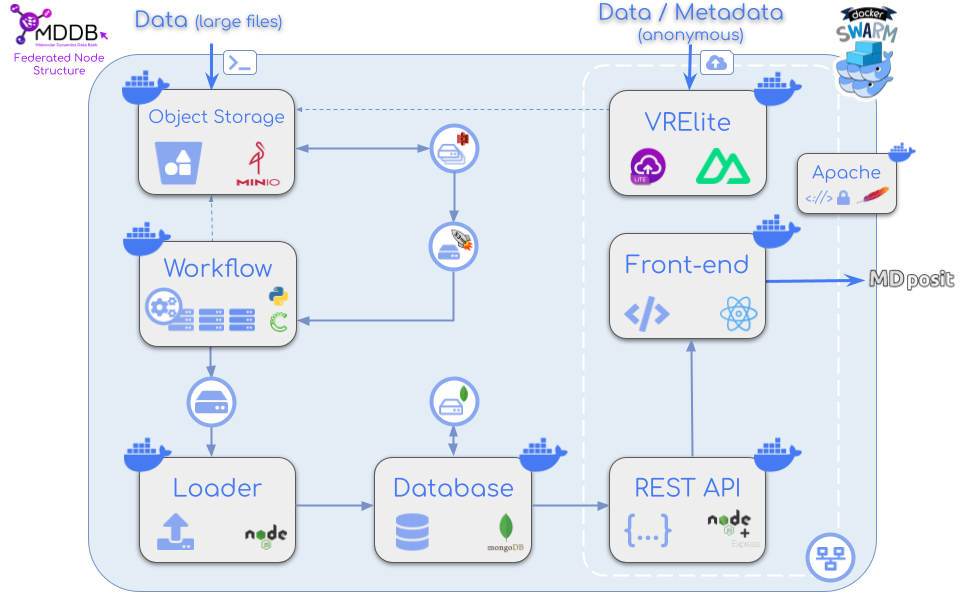
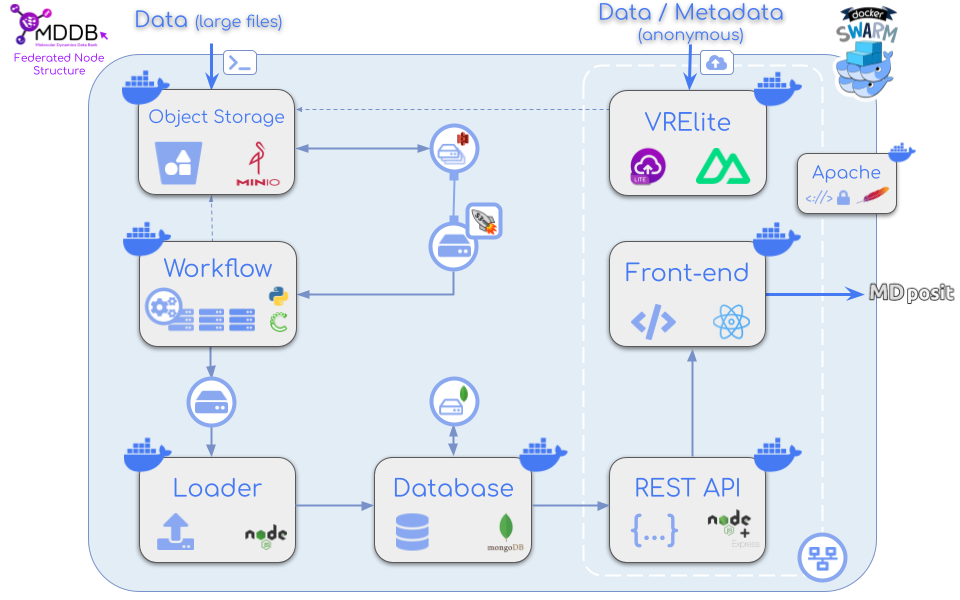
New storage section

diff --git a/readme/docker-swarm.md b/readme/docker-swarm.md
@@ -18,10 +18,11 @@ docker swarm init
 docker swarm init --advertise-addr <IP_ADDRESS>
 ```
 
-In order to execute the **long-term** tasks in **Docker Swarm** and the **one-off tasks**, such as the **loader** or the **workflow**, in **Docker Compose**, the **networks** are declared as **external** in the **docker-compose.yml** file, so they must be created before the `docker-compose build` and the `docker stak deploy`:
+In order to execute the **long-term** tasks in **Docker Swarm** and the **one-off tasks**, such as the **loader** or the **workflow**, in **Docker Compose**, some of the **networks** are declared as **external** in the **docker-compose.yml** file, so they must be created before the `docker-compose build` and the `docker stak deploy`:
 
 ```sh
 docker network create --driver overlay --attachable data_network
+docker network create --driver overlay --attachable minio_network
 ```
 
 > NOTE: **From July 2024 onwards**, the instruction for Docker Compose in **mac** is without hyphen, so from now on, `docker-compose build` is `docker compose build` when executing in **macOS**.
@@ -83,20 +84,38 @@ docker run --rm workflow_image mwf -h
 
 Please read carefully the [**workflow help**](../workflow) as it has an extensive documentation. 
 
-Example of running the workflow downloading an already **loaded trajectory** and saving the results into a **folder** that must be already created inside **WORKFLOW_VOLUME_PATH** defined in [**global .env**](config.md#env-file).
+#### Plain execution
+
+Example of **running** the workflow downloading an already **loaded trajectory** and saving the results into an **OUTPUT_FOLDER** that must be already created inside **WORKFLOW_VOLUME_PATH** defined in [**global .env**](config.md#env-file).
 
 ```sh
-docker-compose run --rm workflow mwf run -proj <ACCESSION ID> -smp -e clusters energies pockets -dir /data/<folder>
+docker-compose run --rm workflow mwf run -proj <ACCESSION ID> -smp -e clusters energies pockets -dir /data/<OUTPUT_FOLDER>
 ```
 
 Or, if the above doesn't work:
 
 ```sh
-docker run --rm workflow_image --cpus "${WORKFLOW_CPU_LIMIT}" --memory "${WORKFLOW_MEMORY_LIMIT}" mwf run -proj <ACCESSION ID> -smp -e clusters energies pockets -dir /data/<folder>
+docker run --rm workflow_image -v <WORKFLOW_VOLUME_PATH>:/data --cpus "${WORKFLOW_CPU_LIMIT}" --memory "${WORKFLOW_MEMORY_LIMIT}" mwf run -proj <ACCESSION ID> -smp -e clusters energies pockets -dir /data/<OUTPUT_FOLDER>
 ```
 
 Note that this run excludes clusters, energies and pockets analyses. Adding the -smp flag it downloads only 10 frames of the trajectory. As this instruction is a test, this will save a lot of computational time.
 
+#### Usual execution
+
+Example of **running** the workflow from data **uploaded via VRE lite**:
+
+```sh
+docker run --rm -e BUCKET=<BUCKET> --network minio_network -v <WORKFLOW_VOLUME_PATH>:/data  --cpus "${WORKFLOW_CPU_LIMIT}" --memory "${WORKFLOW_MEMORY_LIMIT}" --cap-add SYS_ADMIN --device /dev/fuse --security-opt apparmor:unconfined workflow_image mwf run -dir /data/<OUTPUT_FOLDER> -top /mnt/<FOLDER>/<TOPOLOGY> -stru /mnt/<FOLDER>/<TOPOLOGY> -traj ../../mnt/<FOLDER>/<TRAJECTORY> -mdir <REPLICA_FOLDER> -inp /mnt/<FOLDER>/metadata.yaml -filt
+```
+
+* **BUCKET:** Bucket created in MinIO via **VRE lite**. Given along with the credentials when **uploading** the data via **command line**. In format **YYYYMMDD**.
+* **WORKFLOW_VOLUME_PATH:** Workflow output path defined in [**global .env**](config.md#env-file).
+* **OUTPUT_FOLDER:** Folder inside **WORKFLOW_VOLUME_PATH**, it must be created beforehand.
+* **FOLDER:** Folder inside **BUCKET**. Given along with the credentials when **uploading** the data via **command line**.
+* **TOPOLOGY:** **Topology** file name. File uploaded via **VRE lite**.
+* **TRAJECTORY:** **Trajectory** file name. File uploaded via **VRE lite**.
+* **REPLICA_FOLDER:** Replica folder created beforehand **inside <WORKFLOW_VOLUME_PATH>/<OUTPUT_FOLDER>**
+ 
 ### Use loader
 
 While the **mongodb**, **client** and **rest** containers will remain up, the **loader** must be called every time is needed. As it is a **one-off task**, **Docker Compose** is used for running it.
@@ -116,16 +135,16 @@ docker run --rm --network data_network --cpus "${LOADER_CPU_LIMIT}" --memory "${
 **Load** documents to database:
 
 ```sh
-docker-compose run --rm loader load /data/<trajectory_dir>
+docker-compose run --rm loader load /data/<OUTPUT_FOLDER>
 ```
 
 Or, if the above doesn't work:
 
 ```sh
-docker run --rm --network data_network --cpus "${LOADER_CPU_LIMIT}" --memory "${LOADER_MEMORY_LIMIT}" loader_image loader load /data/<trajectory_dir>
+docker run --rm --network data_network -v <WORKFLOW_VOLUME_PATH>:/data --cpus "${LOADER_CPU_LIMIT}" --memory "${LOADER_MEMORY_LIMIT}" loader_image load -a <ACCESSION> /data/<OUTPUT_FOLDER>
 ```
 
-Take into account that **trajectory_dir** must be inside **LOADER_VOLUME_PATH** defined in [**global .env**](config.md#env-file).
+Take into account that **OUTPUT_FOLDER** must be inside **WORKFLOW_VOLUME_PATH**, defined in [**global .env**](config.md#env-file).
 
 **Remove** database document:
 
@@ -136,7 +155,7 @@ docker-compose run --rm loader delete <project_id>
 Or, if the above doesn't work:
 
 ```sh
-docker run --rm --network data_network --cpus "${LOADER_CPU_LIMIT}" --memory "${LOADER_MEMORY_LIMIT}" loader_image loader delete <project_id>
+docker run --rm --network data_network --cpus "${LOADER_CPU_LIMIT}" --memory "${LOADER_MEMORY_LIMIT}" loader_image delete <project_id>
 ```
 
 ### Check rest

diff --git a/readme/config.md b/readme/config.md
@@ -103,8 +103,10 @@ An `.env` file must be created in the **root** of the project. The file [**.env.
 | VRE_LITE_BASE_URL_PRODUCTION          | string | VRE lite baseURL for production                            |
 | VRE_LITE_LOG_PATH          | string  | path where the logs will be saved (relative to the docker)                           |
 | VRE_LITE_MAX_FILE_SIZE      | number  | maximum size for all the trajectory files in bytes                      |
-| &nbsp;
 | VRE_LITE_TIME_DIFF      | number  | number of days to be subtracted from now to run the cleaning jobs for the VRE lite          |
+| &nbsp;
+| CJ_VRE_LITE_LOG_PATH      | string  | Path to the cronjobs log (relative to the VRE lite docker)                                    |
+| CRONJOB_VRE_LITE_TIME_DIFF      | number  | number of days that the VRE lite credentials will last                                    |
 | CRONJOB_REPLICAS      | number  | number of replicas to deploy                                    |
 | CRONJOB_CPU_LIMIT      | string  | Cronjobs limit number of CPUs                                    |
 | CRONJOB_MEMORY_LIMIT          | string | Cronjobs limit memory                           |
@@ -242,8 +244,16 @@ services:
     image: workflow_image
     build:
       context: ./workflow   # folder to search Dockerfile for this image
+      args:
+        MINIO_ROOT_USER: ${MINIO_ROOT_USER}
+        MINIO_ROOT_PASSWORD: ${MINIO_ROOT_PASSWORD}
+        MINIO_API_PORT: ${MINIO_API_INNER_PORT}
     volumes:
       - workflow_volume:/data  # path where the workflow will look for files
+    networks:
+      - minio_network
+    depends_on:
+      - minio
     deploy:
       replicas: ${WORKFLOW_REPLICAS}  # Ensure this service is not deployed by default as it is a one-time task
       resources:
@@ -431,8 +441,9 @@ services:
     build:
       context: ./cronjobs
       args:
-        LOG_PATH: ${VRE_LITE_LOG_PATH}
+        VRE_LITE_LOG_PATH: ${VRE_LITE_LOG_PATH}
         VRE_LITE_TIME_DIFF: ${CRONJOB_VRE_LITE_TIME_DIFF}
+        CJ_VRE_LITE_LOG_PATH: ${CJ_VRE_LITE_LOG_PATH}
         MINIO_ROOT_USER: ${MINIO_ROOT_USER}
         MINIO_ROOT_PASSWORD: ${MINIO_ROOT_PASSWORD}
         MINIO_PORT: ${MINIO_API_INNER_PORT}
@@ -509,8 +520,7 @@ networks:
   data_network: 
     external: true   # Use an external network
   minio_network: 
-    name: minio_network 
-    driver: overlay   # Use an overlay network
+    external: true   # Use an external network
   web_network:
     name: web_network
     driver: overlay   # Use an overlay network

diff --git a/readme/storage.md b/readme/storage.md
@@ -1,0 +1,72 @@
+# Set Up Storage
+
+Many storages are needed before building and deploying the docker containers. 
+
+* [Docker](#docker)
+* [MinIO](#minio)
+* [MongoDB](#mongodb)
+* [Workflow](#workflow)
+* [Loader](#loader)
+* [Certificates](#certificates)
+* [Logs](#logs)
+
+## Docker
+
+In the **volume** where the data is stored, create the following **/docker folder**:
+
+> /path/to/volume/docker
+
+All the **Docker images and data** will be stored inside this volume.
+
+## MinIO
+
+In the **volume** where the data is stored, create the following **/minio folder**:
+
+> /path/to/volume/minio
+
+And inside this folder, as many **volumes** as **disks** defined in the [**docker-compose.yml**](../docker-compose.yml) file. For example:
+
+> /path/to/volume/minio/disk1 <br>
+/path/to/volume/minio/disk2 <br>
+/path/to/volume/minio/disk3 <br>
+/path/to/volume/minio/disk4
+
+As MinIO allows a **multi-drive** configuration, it will **distribute** the data amongst these **volumes**.
+
+## MongoDB
+
+In the **volume** where the data is stored, create the following **/db folder**:
+
+> /path/to/volume/db
+
+All the **MongoDB** data will be stored inside this volume.
+
+## Workflow
+
+In the **volume** where the data is stored, create the following **/data folder**:
+
+> /path/to/volume/data
+
+All the **data generated by the workflow** data will be stored inside this volume.
+
+## Loader
+
+The loader will use the same **/data folder** of the workflow as input data path:
+
+> /path/to/volume/data
+
+## Certificates
+
+In the **volume** where the data is stored, create the following **/certs folder**:
+
+> /path/to/volume/certs
+
+In this folder must be stored the **SSL/TSL** certificates that the **apache docker** will use for configuring **https** protocol.
+
+## Logs
+
+In the **volume** where the data is stored, create the following **/logs folder**:
+
+> /path/to/volume/logs
+
+In this folder will be stored the **logs** of the **VRE lite** and the **Cronjobs** docker.

diff --git a/README.md b/README.md
@@ -83,6 +83,12 @@ For the sake of performing **automatic operations** such as cleaning or checking
 
 Please execute the following steps for installing the **MDposit - MDDB Docker services**:
 
+### Set Up Storage
+
+The **Object Storage** and **Mongo** services will need a **disk path** to save all the **data** generated. The **Workflow** and the **Loader** services will need **another disk path** as well for **saving** (in the case of the workflow) and **retrieving** (in the case of the loader) the data that will be **uploaded** to the **website** in the last instance.
+
+[**Click here for seeing the detailed instructions for setting up the Storage**](readme/disks.md)
+
 ### Set Up Virtual Machine
 
 Let's take a **clear** and **empty Virtual Machine** as a starting point for installing the **MDposit - MDDB Docker services**. It's highly recommended to have installed in it **Ubuntu 18.04 or superior**, though the services should work in other **Linux** distributions.
@@ -100,8 +106,6 @@ First off, all the **environment files** must be created and updated as well as 
 Once the Virtual Machine has all the **dependencies installed** and all the **config** files are **set up**, it's the moment of executing the **Docker Swarm** service. **Docker Swarm** is a **container orchestration** tool for **clustering** and **scheduling** Docker containers. 
 
 [**Click here for seeing the detailed instructions for executing Docker Swarm**](readme/docker-swarm.md)
-
- or [Click here](readme/docker-compose.md) for the detailed instructions for executing Docker Compose.
 
 ### Tips
 

diff --git a/readme/setup.md b/readme/setup.md
@@ -102,15 +102,15 @@ Before moving Docker's storage directory, you need to **stop** the Docker servic
 
 #### Move the Docker Root Dir
 
-Now, move Docker's current storage directory (`/var/lib/docker`) to the external disk:
+Now, move Docker's current storage directory (`/var/lib/docker`) to a volume out of the docker. This volume has been created previously in the [**storage step**](./storage.md#docker):
 
-    sudo mv /var/lib/docker /mnt/external_disk/docker
+    sudo mv /var/lib/docker /path/to/volume/docker
 
 #### Create a Symlink
 
 Create a **symbolic link** so that Docker continues to look in `/var/lib/docker`, but the actual data is stored on the external disk:
 
-    sudo ln -s /mnt/external_disk/docker /var/lib/docker
+    sudo ln -s /path/to/volume/docker /var/lib/docker
 
 ### Start docker
 
@@ -122,7 +122,7 @@ Now that Docker is configured to use the external disk, **start** the Docker ser
 
     docker info | grep "Docker Root Dir"
 
-You should see the new location, e.g., `/mnt/external_disk/docker`.
+You should see the new location, e.g., `/path/to/volume/docker`.
 
 ## Installation and configuration of Apache
 

diff --git a/readme/tips.md b/readme/tips.md
@@ -46,6 +46,18 @@ For rebuilding a single service avoiding cache but preserving the rest of servic
     docker service update --force <stack_name>_<service_name>
     ```
 
+3. **Remove Stopped Container(s):** After updating the service, the old container remains stopped, execute the following instruction for removing it:
+
+    ```sh
+    docker container prune -f
+    ````
+
+4. **Remove Unused Image(s):** After rebuilding the image, the old image remains unused, execute the following instruction for removing it:
+
+    ```sh
+    docker image prune -f
+    ```
+
 ## Clean docker
 
 When working with Docker, **even after removing images and containers**, Docker can leave behind various unused resources that take up **disk space**. To clean up your system effectively, you can use the following commands:
